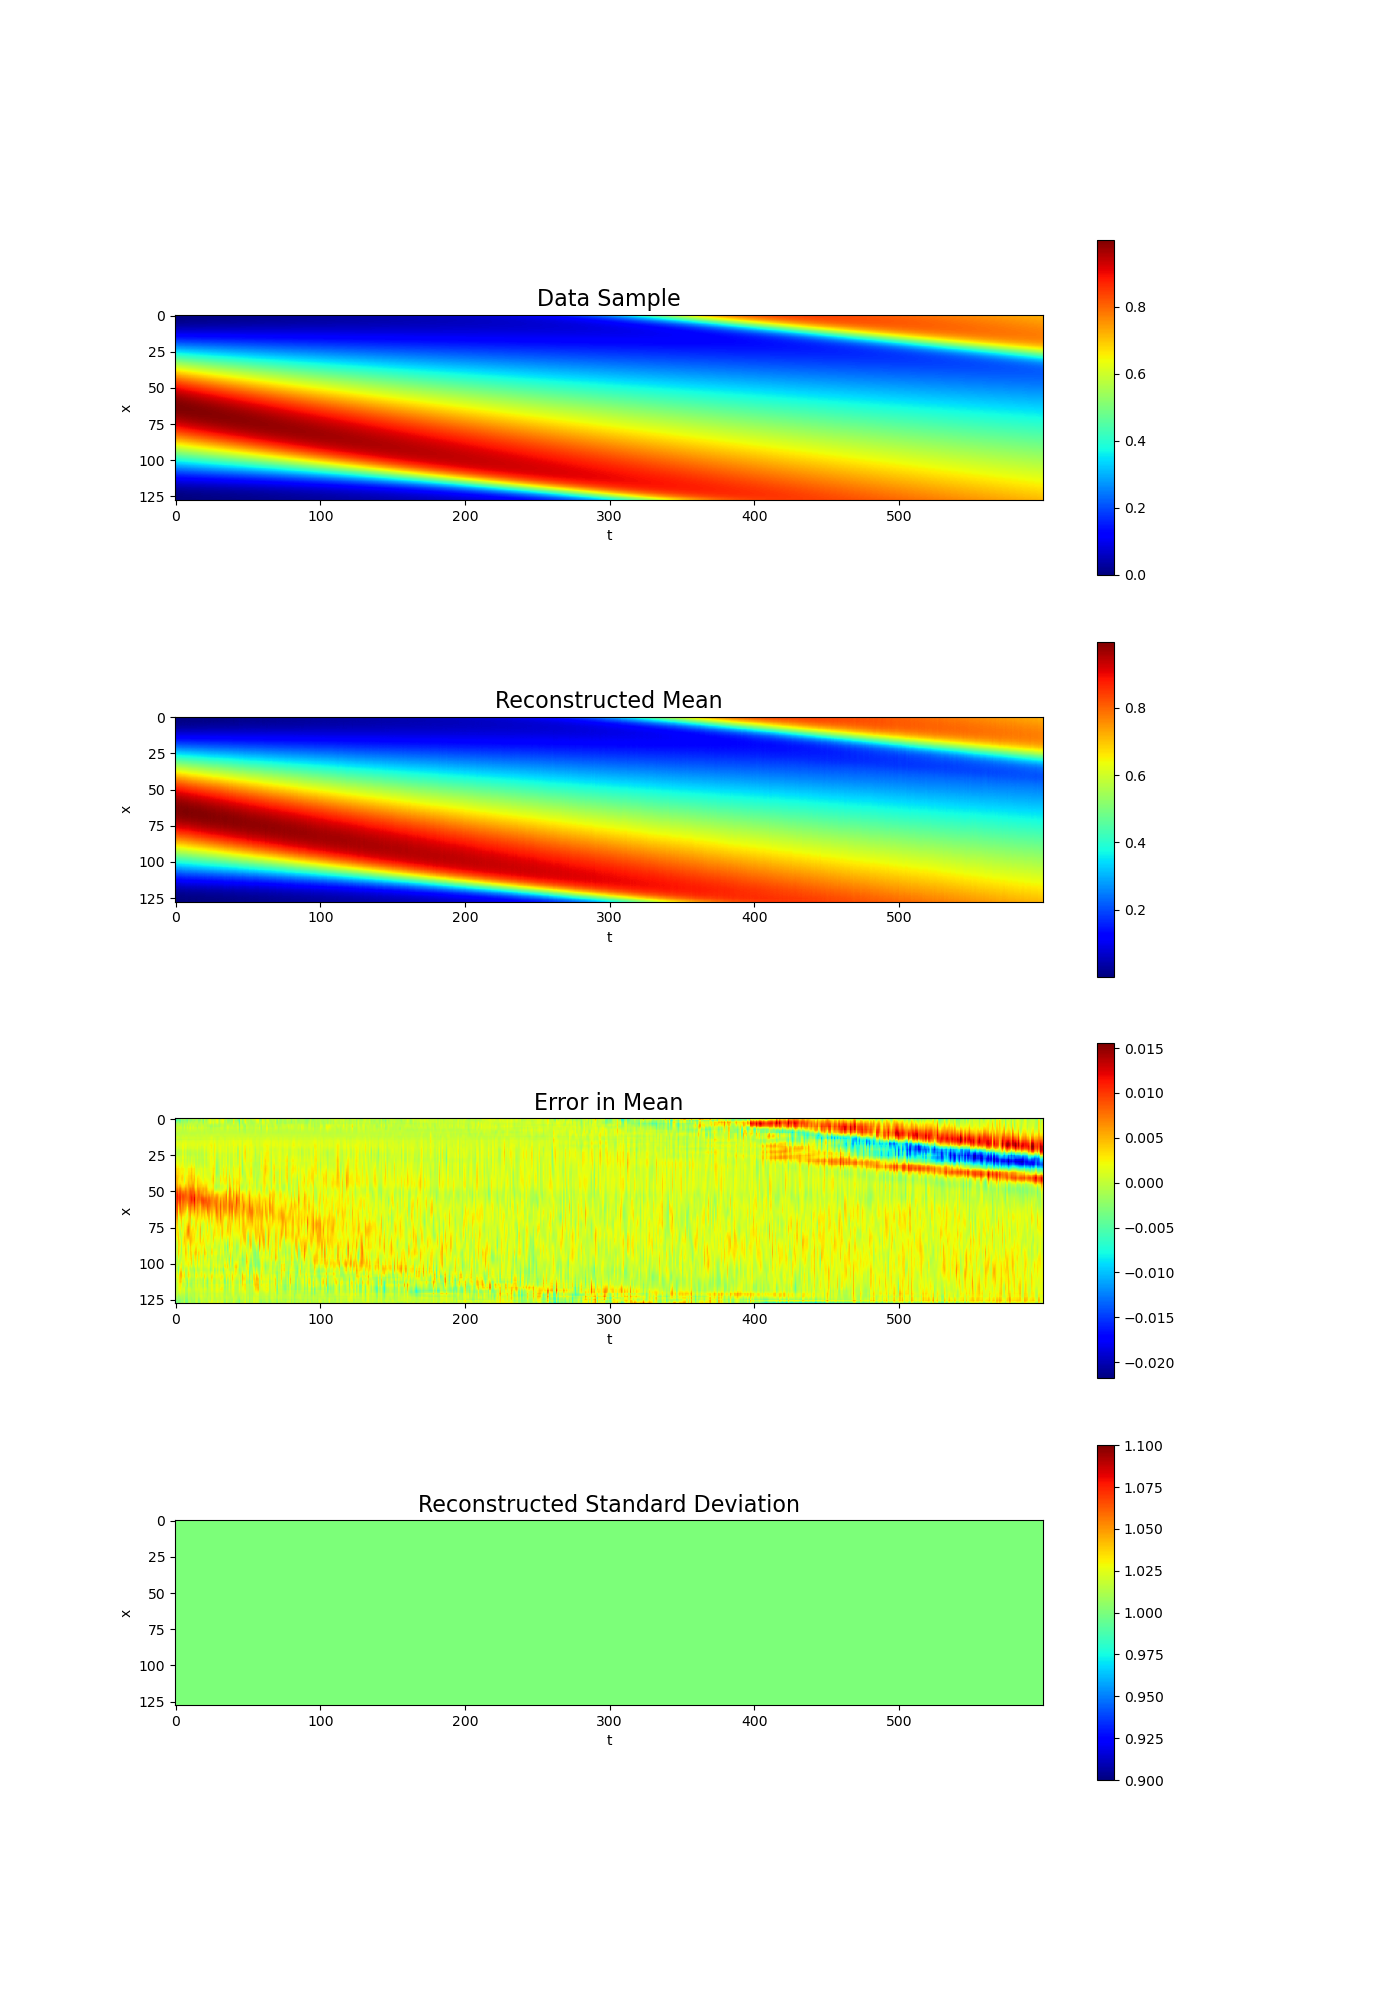
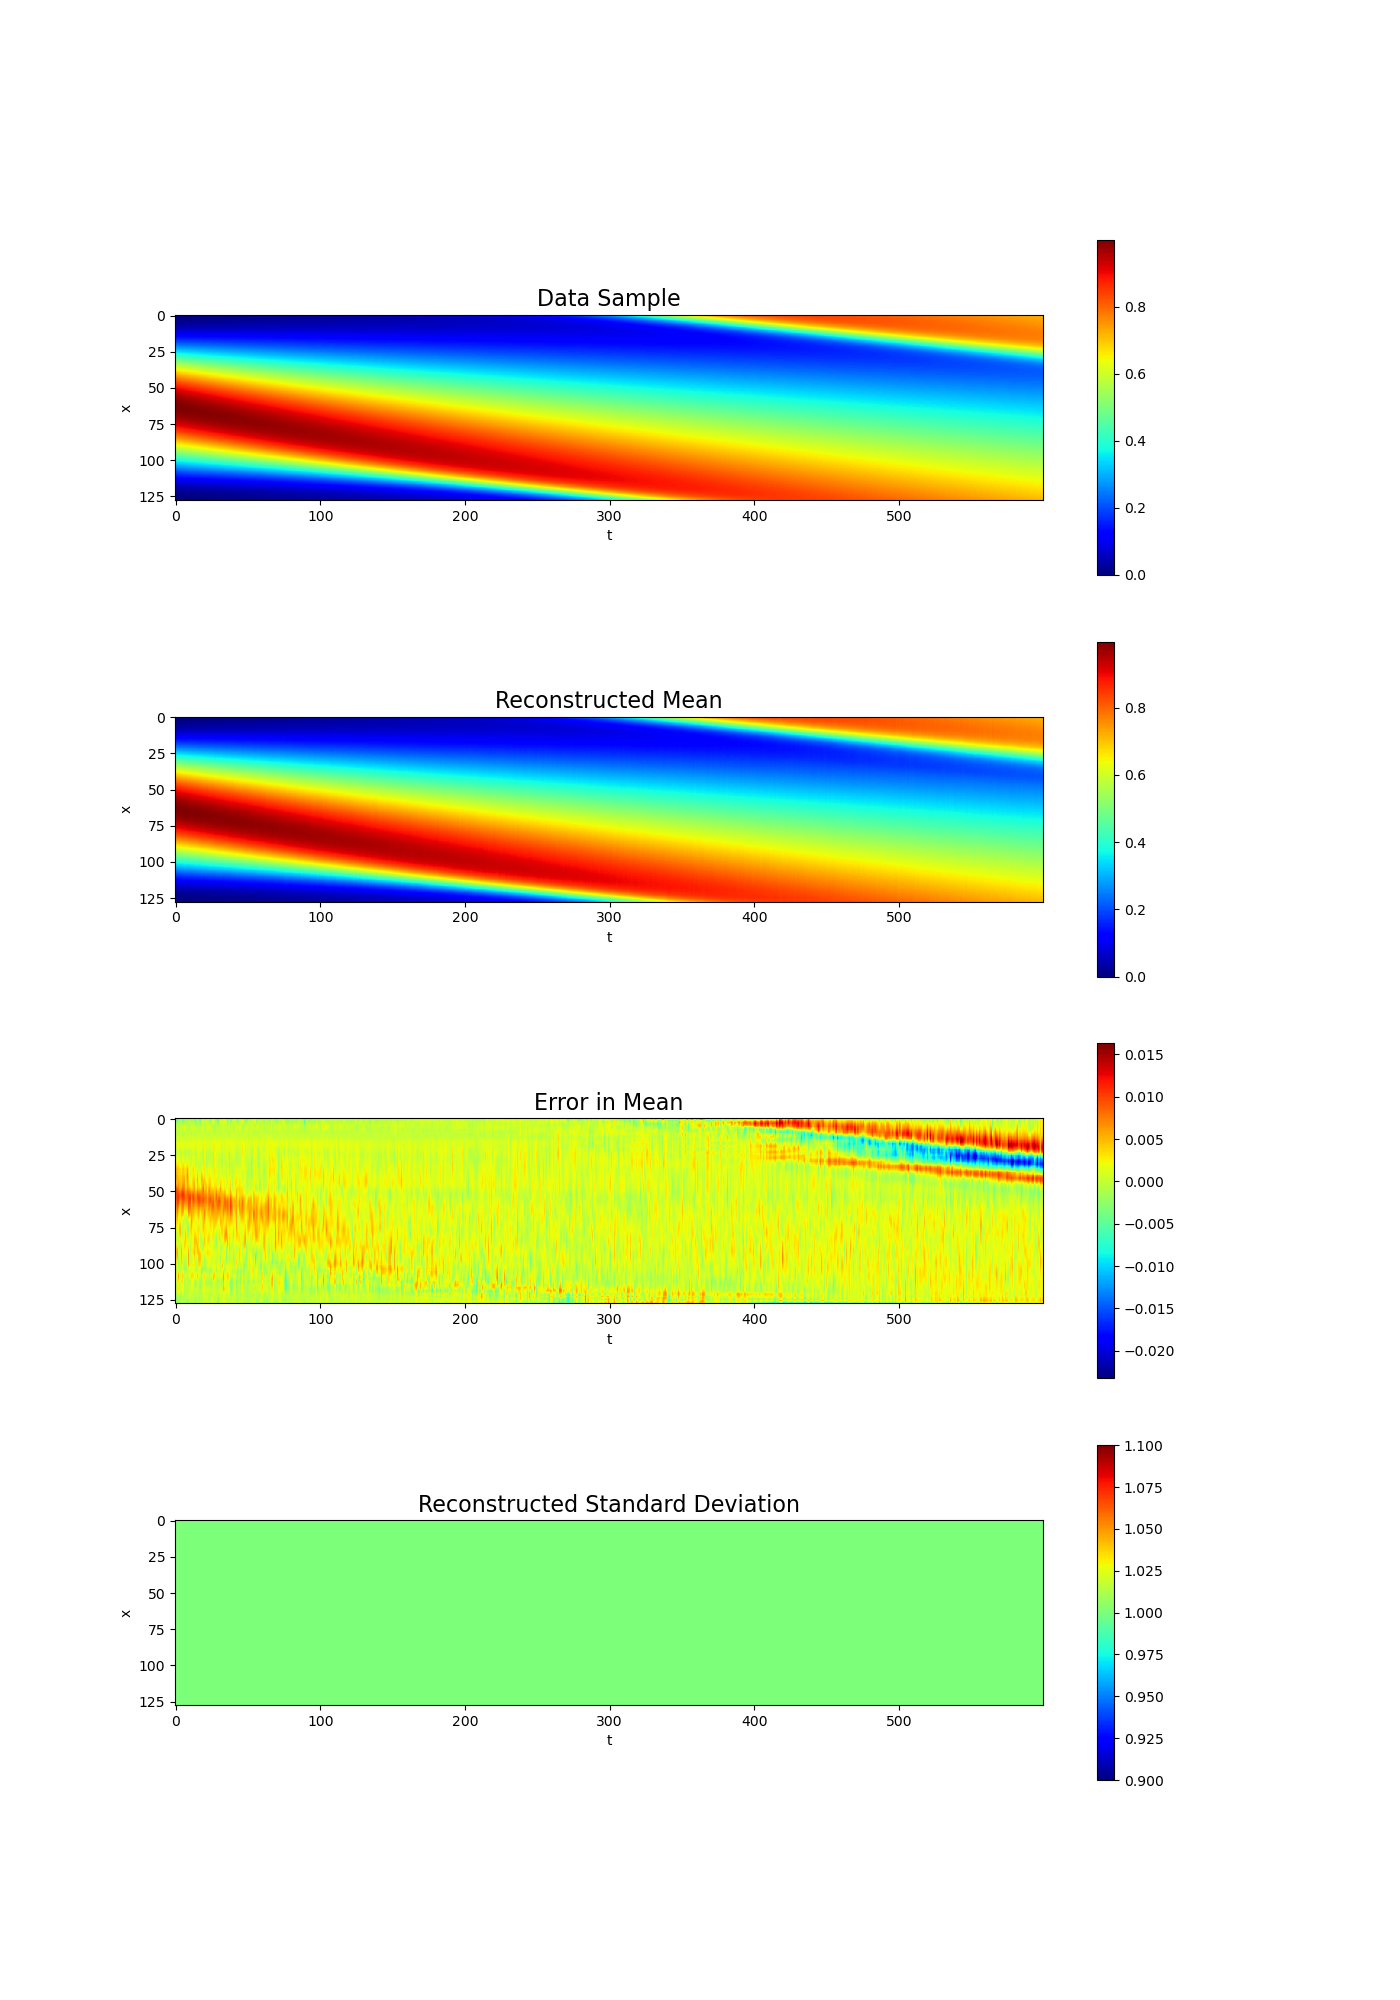
Improved post processing

diff --git a/vae_load.py b/vae_load.py
@@ -135,7 +135,7 @@ for trial in trials:
     plt.plot([ntrain0,ntrain0], [0,n_latent], 'k--', linewidth=3)
     plt.colorbar()
     plt.subplot(3,1,3)
-    abs_error = (muz-muz_F)
+    abs_error = (muz_F-muz)
     plt.imshow(np.transpose(abs_error.detach().numpy()),cmap='seismic')
     plt.xlabel('t')
     plt.ylabel('absolute error')
